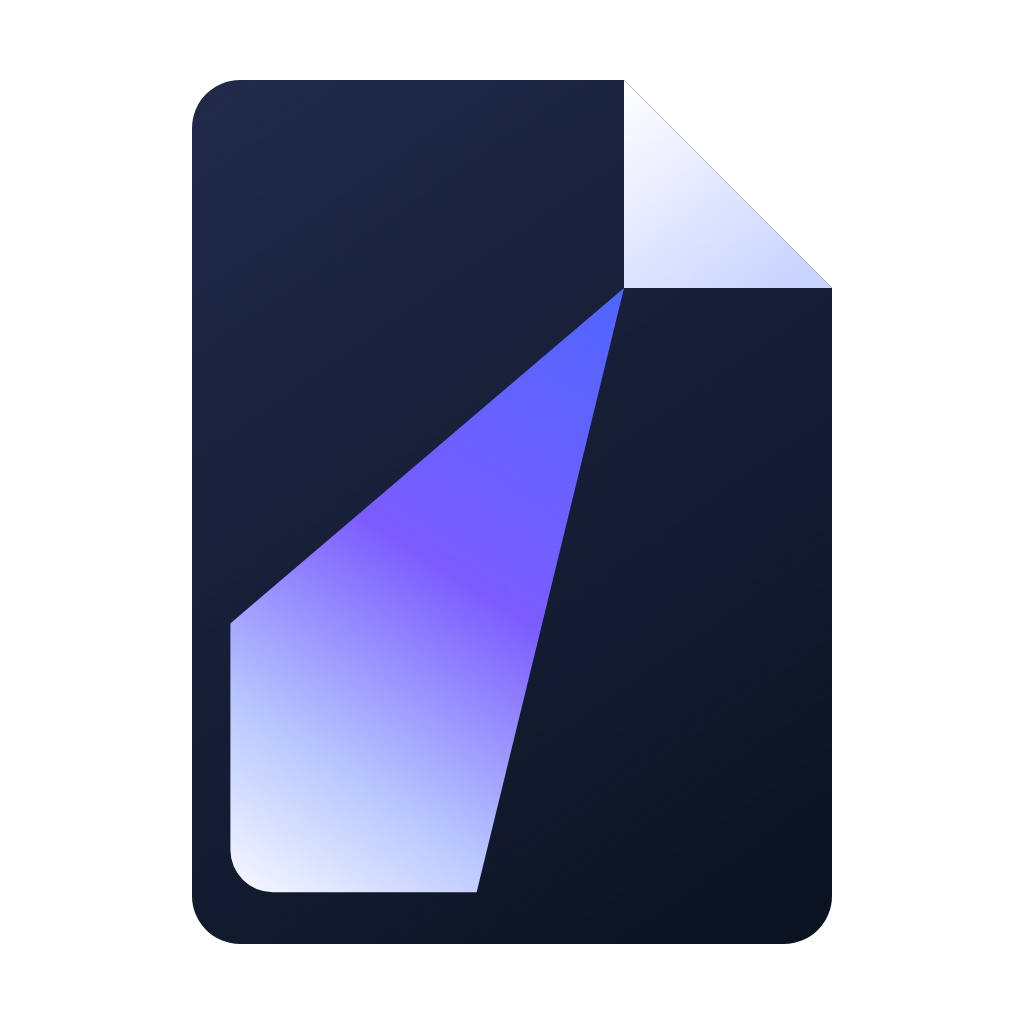
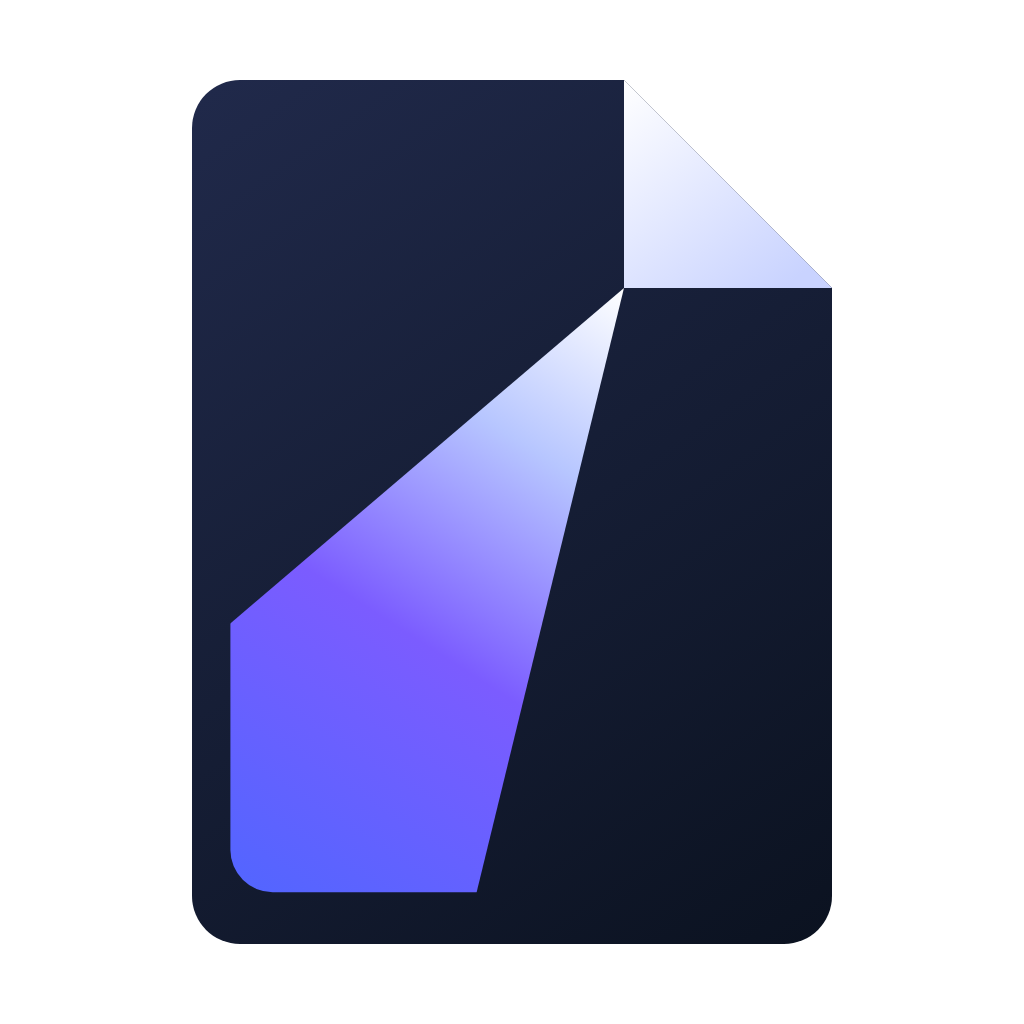
fix: light the beam from the aperture, and outline the wordmark
Two blockers from review.

**The illumination ran backwards.** The beam gradient placed luminous blue
at the fold's aperture and white at the far, wide end — the same four
approved colours as the reference, in the opposite order, which reads as a
page absorbing light rather than emitting it. A1.3 is "Illuminated Paper":
the fold opens a gap, the light is brightest where it comes through, and it
cools outward into the blue-violet family. The gradient now runs
#FFFFFF → #B7C6FF → #7B5CFF → #4F66FF from aperture outward, and all five
PNGs are regenerated from it.

Nothing about a reversed gradient looks broken, so it is pinned rather than
left to review — and pinned by *direction*, not by which colours appear. The
test asserts the endpoint semantics and that the offset-0 end of the
gradient vector sits on the beam's apex, so flipping the vector while
keeping the stops is caught too. Verified as negative controls: reversing
the stops fails 3 tests, flipping only the vector fails 1, and the
untampered file passes in both runs.

**The wordmark was live <text>.** That cannot be a canonical master — it
renders differently wherever the font stack resolves differently, which is
most machines. PaperLume is now set in Inter SemiBold (weight 600, SIL Open
Font License) and converted to vector outlines: no <text>, no <tspan>, no
font-family, no @font-face, no embedded or referenced font, no runtime
dependency. The two-tone Paper/Lume treatment and the optical relationship
[…]

Changed region(s): [[0.2188, 0.5312, 0.5312, 0.875], [0.3438, 0.2812, 0.625, 0.625]]

diff --git a/assets/brand/brand-spec.md b/assets/brand/brand-spec.md
@@ -55,21 +55,30 @@ four marks that quietly diverge are worse than one mark.
 | White | `#FFFFFF` | 255, 255, 255 |
 | Charcoal | `#1A1F2B` | 26, 31, 43 |
 
-> Transcribed from the approved brand board. Where the board's hex label and its
-> RGB triplet disagreed (Indigo, Periwinkle), **the RGB triplet was taken as
-> authoritative** and the hex recomputed from it. Confirm both against the
-> original design source before any print run.
+> These are the **canonical PaperLume v1 palette**, derived from the approved
+> A1.3 reference. Where that reference's hex label and its RGB triplet disagreed
+> (Indigo, Periwinkle), the RGB triplet was taken as authoritative and the hex
+> recomputed from it. The resulting values are settled for v1 — build against
+> them.
 
 ### Gradients
 
-**Beam** (apex → aperture mouth), the signature gradient:
+**Beam** — the signature gradient. It runs **from the aperture outward**, and
+that direction is the whole idea: the fold opens a gap, the light is brightest
+where it comes through, and it cools into the blue-violet family as it spreads.
+Reversing it turns the mark from a page emitting light into a page absorbing it.
 
-| Stop | Colour |
-|---|---|
-| 0% | `#4F66FF` |
-| 45% | `#7B5CFF` |
-| 75% | `#B7C6FF` |
-| 100% | `#FFFFFF` |
+| Stop | Colour | Where |
+|---|---|---|
+| 0% | `#FFFFFF` | **the aperture** — highest luminance, at the fold's inner corner |
+| 25% | `#B7C6FF` | |
+| 55% | `#7B5CFF` | |
+| 100% | `#4F66FF` | the far, wide end of the beam |
+
+The gradient vector starts at the beam's apex (`39 18`) — the same point the
+beam path starts from — so the white stop is anchored to the aperture rather
+than merely being somewhere in the run. `scripts/lib/__tests__/brand-assets.test.mjs`
+asserts both the endpoint colours and that anchoring, so a reversal fails.
 
 **Page** `#20294A` → `#0B1220`.  **Fold** `#FFFFFF` → `#C9D3FF`.
 
@@ -126,6 +135,25 @@ the silhouette in two.
 Everything else — silhouette, page/fold geometry, beam direction, proportion,
 wordmark relationship, colour family — is as approved.
 
+## 5a. Typeface
+
+The wordmark is set in **Inter SemiBold (weight 600)**, the approved PaperLume
+wordmark typeface for v1. Inter is licensed under the
+[SIL Open Font License](https://openfontlicense.org/).
+
+`paperlume-logo-horizontal.svg` contains **no live text**: the wordmark is
+converted to vector outlines, so the file renders identically on every machine
+and needs no font installed, downloaded, or embedded. There is no font binary in
+this repository and no runtime font dependency.
+
+Set at 32 units against the 64-unit symbol, tracking `-0.005em`, with the cap
+height straddling the symbol's vertical centre. Changing the wording means
+re-setting it in Inter SemiBold and re-outlining — not editing path data by
+hand.
+
+`Paper` is Deep Navy `#0B1220`; `Lume` is Violet `#7B5CFF`. On dark backgrounds
+`Paper` becomes `#FFFFFF` and `Lume` stays `#7B5CFF`.
+
 ## 6. Regenerating the PNGs
 
 ```sh
@@ -140,21 +168,14 @@ PNG**: edit the SVG and re-run. See
 
 ## 7. Known gaps
 
-These are real and must be closed before the assets are used commercially:
+The pack is canonical and usable as it stands. Two pieces of the original brand
+board were simply not in scope, and remain to be produced:
 
-1. **The wordmark is live `<text>`, not outlines.** PaperLume has no licensed
-   brand typeface yet, and outlining a proprietary system font into a committed
-   asset would be a licensing problem. `paperlume-logo-horizontal.svg` therefore
-   carries a font stack (`Inter, 'SF Pro Display', 'Helvetica Neue', Arial,
-   sans-serif`) and **will render differently where none of those resolve**.
-   Convert to outlines once the brand typeface is chosen and licensed.
-2. **No stacked lockup.** The board shows one; it was out of scope here.
-3. **No tiled app-icon PNG.** The board's "Master App Icon" is the symbol on a
+1. **No stacked lockup.** The board shows one.
+2. **No tiled app-icon PNG.** The board's "Master App Icon" is the symbol on a
    rounded navy tile. Composing it is trivial from these files, but every PNG
    here is transparent-background by requirement, so the tiled composition was
    not produced.
-4. **Colour values need confirmation against the original design source** — see
-   the note under §2.
 
 ## 8. Out of scope for these files
 
